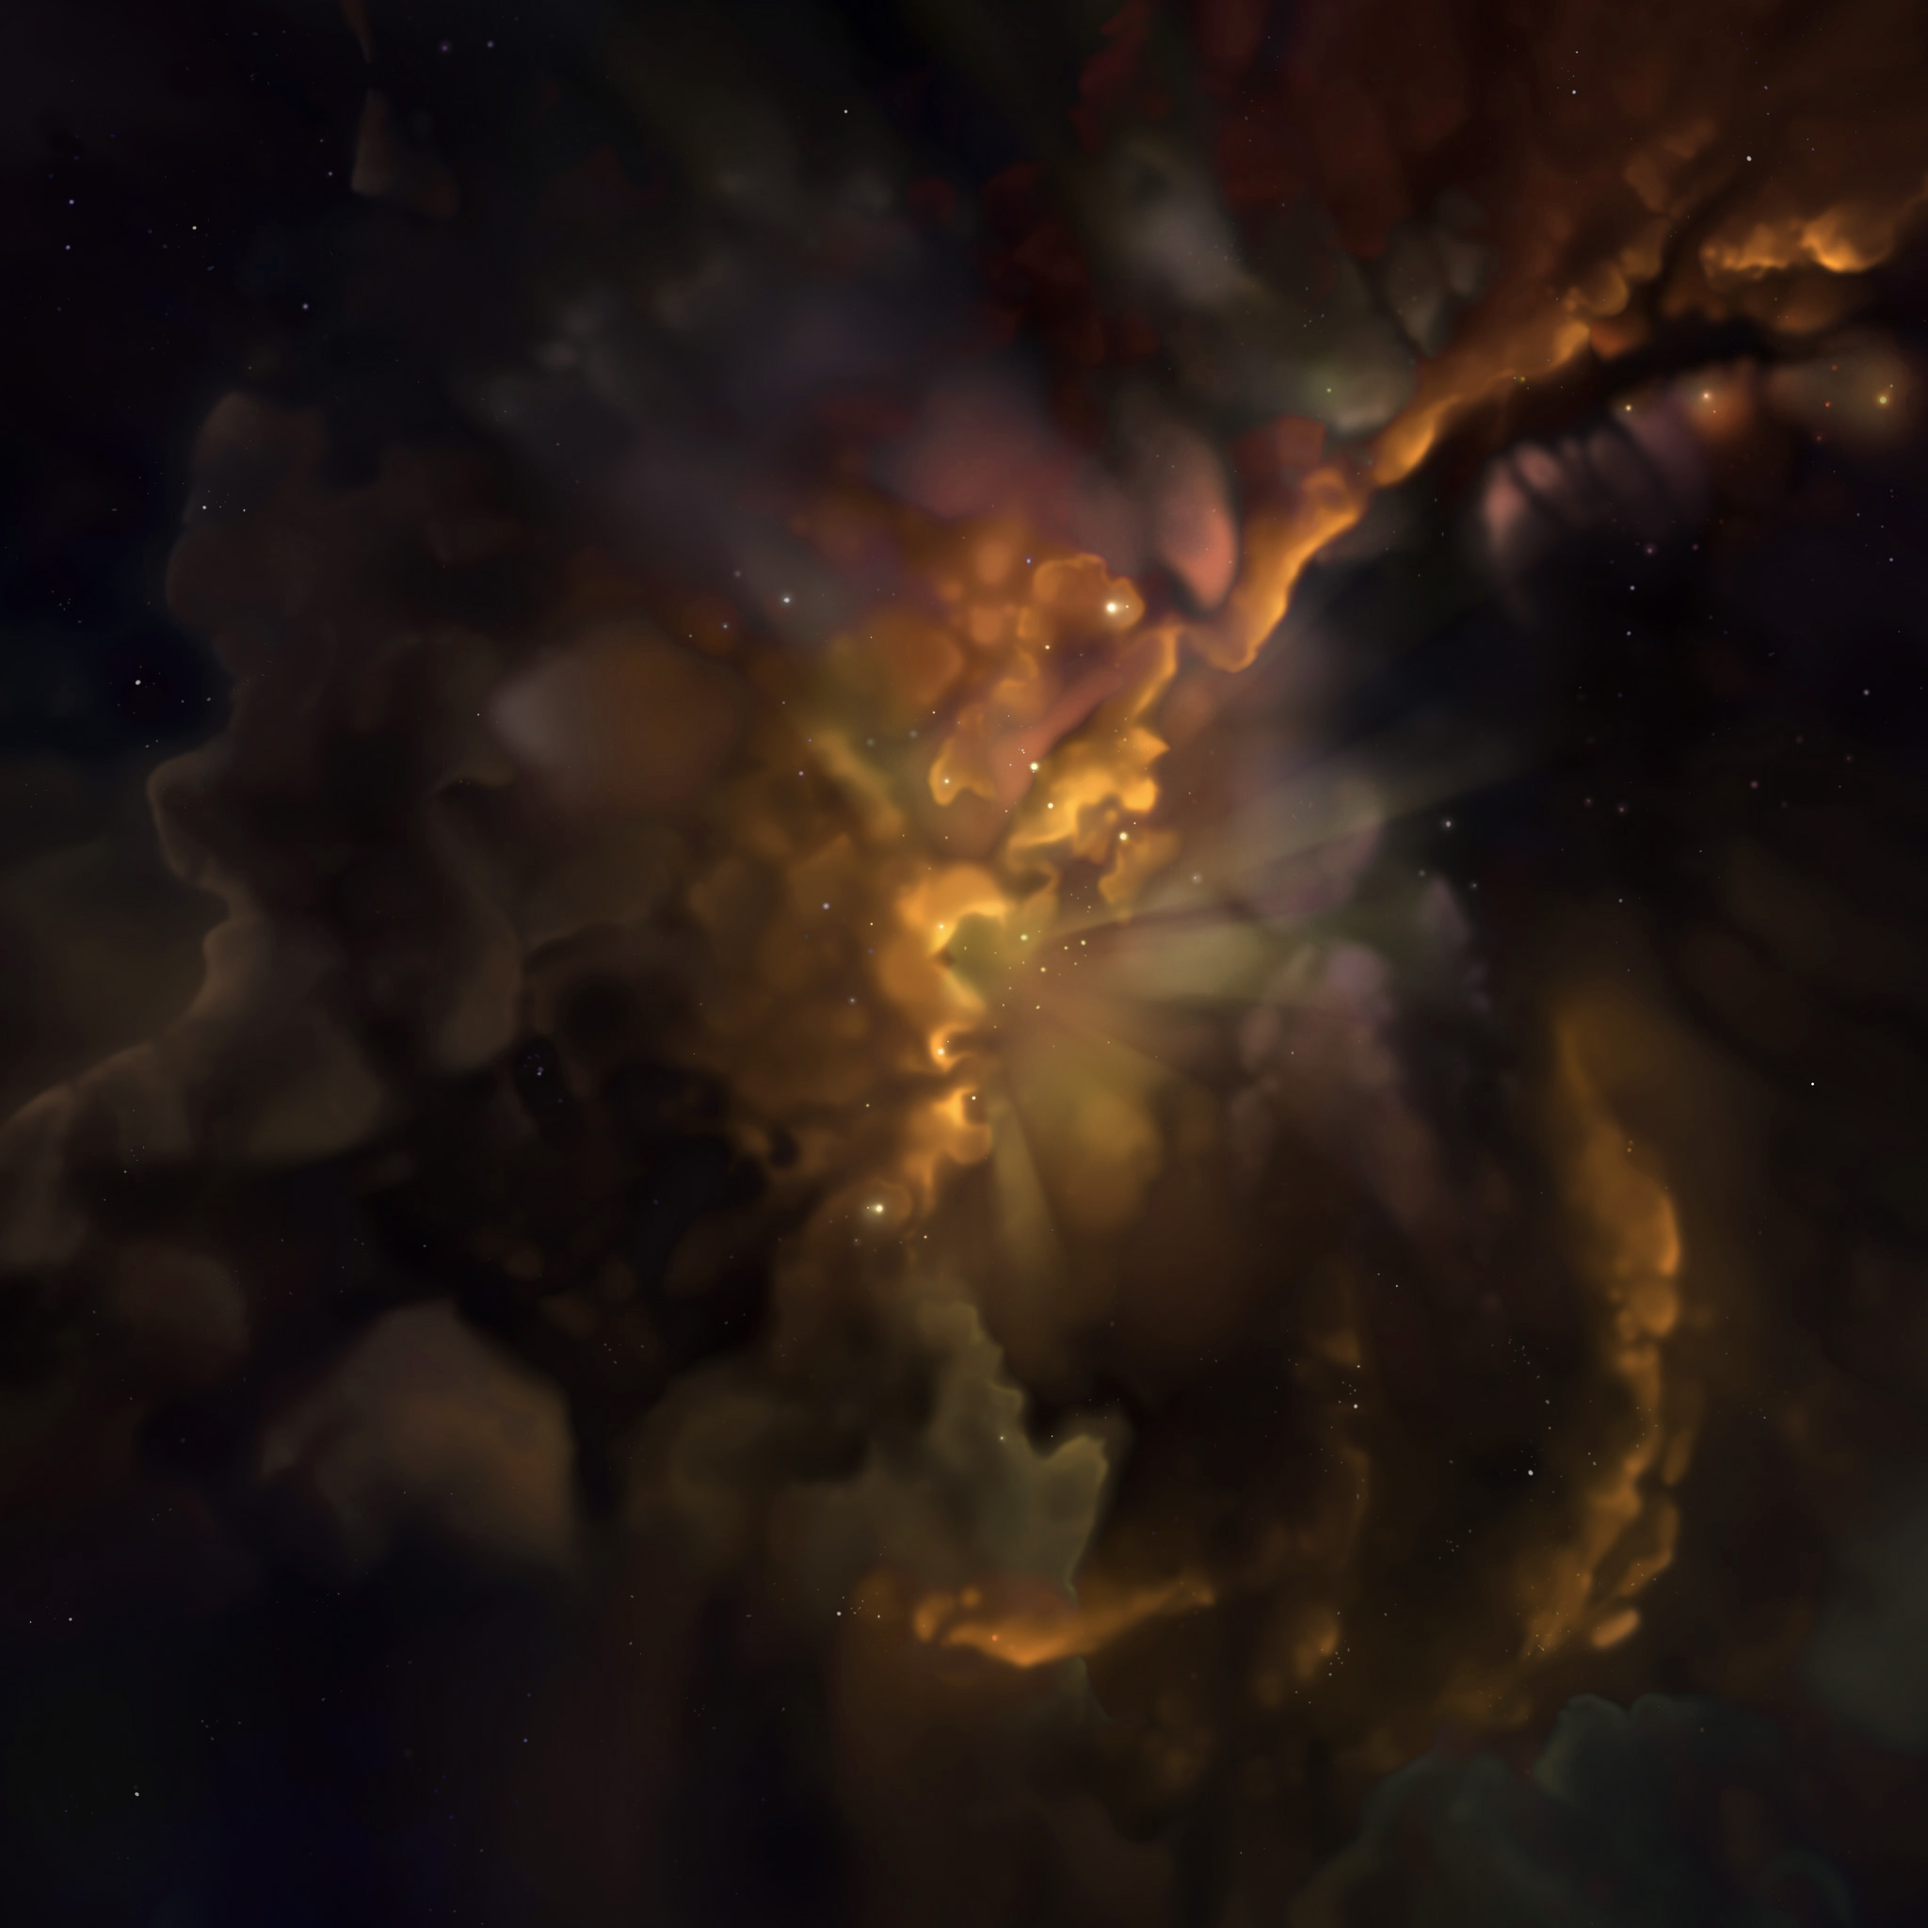
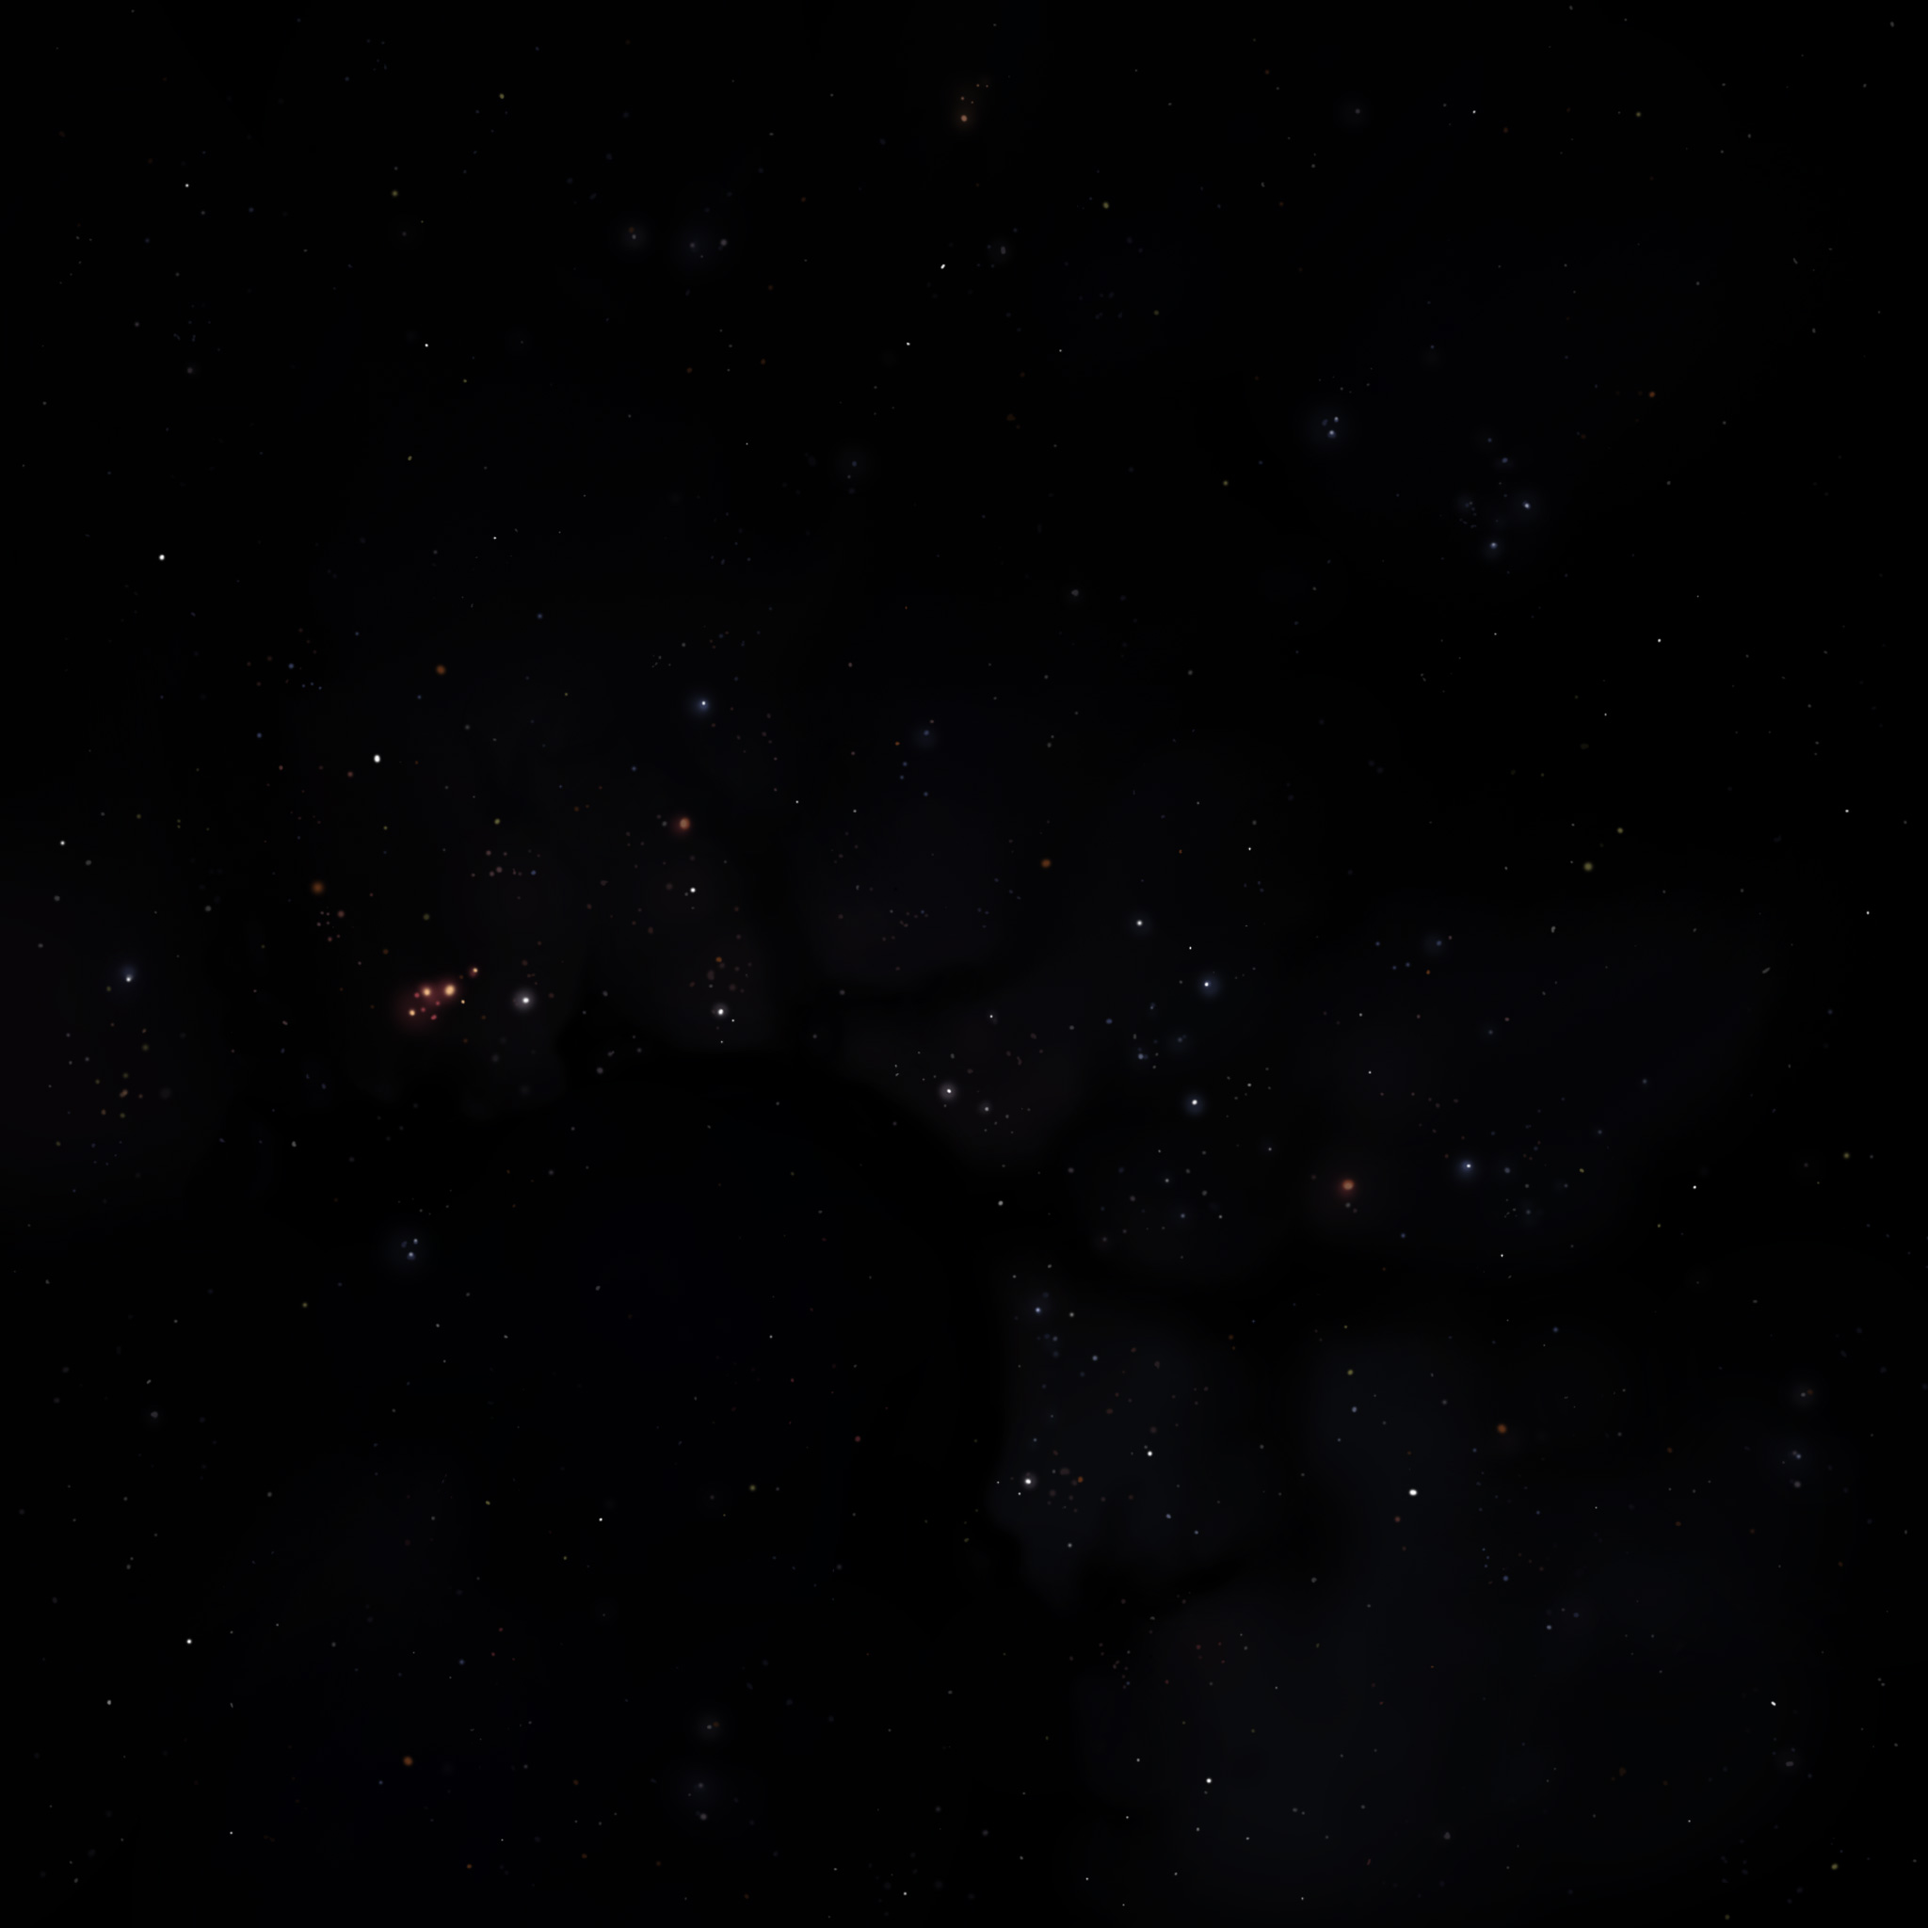
-Added derelict spawning logic and ship graveyard.

diff --git a/src/poggers/oldlegion/world/systems/MySystemOne.java b/src/poggers/oldlegion/world/systems/MySystemOne.java
@@ -19,7 +19,9 @@ import com.fs.starfarer.api.fleet.MutableFleetStatsAPI;
 import com.fs.starfarer.api.impl.campaign.fleets.FleetFactoryV3;
 import com.fs.starfarer.api.impl.campaign.ids.*;
 import com.fs.starfarer.api.impl.campaign.ids.Factions;
+import com.fs.starfarer.api.impl.campaign.rulecmd.salvage.special.ShipRecoverySpecial;
 import com.fs.starfarer.api.impl.campaign.terrain.AsteroidFieldTerrainPlugin;
+import com.fs.starfarer.api.campaign.SectorEntityToken;
 
 import org.apache.log4j.Logger;
 import org.json.JSONArray;
@@ -27,7 +29,10 @@ import org.json.JSONException;
 import org.json.JSONObject;
 
 import org.lazywizard.lazylib.MathUtils;
-import poggers.oldlegion.utils.OldLegionPersons;
+import poggers.oldlegion.scripts.OldLegionMisc;
+
+import static poggers.oldlegion.scripts.OldLegionMisc.addDerelict;
+
 
 public class MySystemOne {
     ImportantPeopleAPI ip = Global.getSector().getImportantPeople();
@@ -77,7 +82,7 @@ public class MySystemOne {
 
         //setup all distances here
         final float asteroids1Dist = 2750f;
-        final float stable1Dist = 4200f;
+        final float stable1Dist = 3700f;
         final float asteroidBelt1Dist = 5700f;
         SectorEntityToken argonAF1 = domainOutpost.addTerrain(Terrain.ASTEROID_FIELD,
                 new AsteroidFieldTerrainPlugin.AsteroidFieldParams(
@@ -95,12 +100,12 @@ public class MySystemOne {
         stableLoc1.setCircularOrbit(relay, MathUtils.getRandomNumberInRange(0f, 360f), stable1Dist, 520);
 
         //asteroid belt1 ring
-        domainOutpost.addAsteroidBelt(relay, 1000, asteroidBelt1Dist, 800, 250, 400, Terrain.ASTEROID_BELT, "Inner Band");
-        domainOutpost.addRingBand(relay, "misc", "rings_asteroids0", 256f, 3, Color.gray, 256f, asteroidBelt1Dist - 200, 250f);
-        domainOutpost.addRingBand(relay, "misc", "rings_asteroids0", 256f, 0, Color.gray, 256f, asteroidBelt1Dist, 350f);
-        domainOutpost.addRingBand(relay, "misc", "rings_asteroids0", 256f, 2, Color.gray, 256f, asteroidBelt1Dist + 200, 400f);
+        //domainOutpost.addAsteroidBelt(relay, 1000, asteroidBelt1Dist, 800, 250, 400, Terrain.ASTEROID_BELT, "Inner Band");
+        //domainOutpost.addRingBand(relay, "misc", "rings_asteroids0", 256f, 3, Color.gray, 256f, asteroidBelt1Dist - 200, 250f);
+        //domainOutpost.addRingBand(relay, "misc", "rings_asteroids0", 256f, 0, Color.gray, 256f, asteroidBelt1Dist, 350f);
+        //domainOutpost.addRingBand(relay, "misc", "rings_asteroids0", 256f, 2, Color.gray, 256f, asteroidBelt1Dist + 200, 400f);
 
-        PlanetAPI Hunhow = domainOutpost.addPlanet("Hunhow", relay, "Hunhow's Fall", "barren", 0, 273, 7777, 157);
+        PlanetAPI Hunhow = domainOutpost.addPlanet("Hunhow", relay, "Hunhow's Fall", "barren", 0, 273, 4977, 157);
         Hunhow.setFaction("domainspecops");
         MarketAPI market = Global.getFactory().createMarket(
                 "Hunhow_market",
@@ -174,13 +179,66 @@ public class MySystemOne {
                 );
         */
         SectorEntityToken buoy = domainOutpost.addCustomEntity("nav_buoy", "Nav Buoy", "nav_buoy", "domainspecops");
-        buoy.setCircularOrbit(relay, 25, 8861, 275);
+        buoy.setCircularOrbit(relay, 25, 6561, 315);
 
         SectorEntityToken array = domainOutpost.addCustomEntity("sensor_array", "Sensor Array", "sensor_array", "domainspecops");
-        array.setCircularOrbit(relay, 25, 3961, 95);
+        array.setCircularOrbit(relay, 25, 2361, 93);
 
         SectorEntityToken domaingate = domainOutpost.addCustomEntity("domain_ops_gate", "Domain Gate", "inactive_gate", "domainspecops");
-        domaingate.setCircularOrbit(relay, 10, 6736, 233);
+        domaingate.setCircularOrbit(relay, 10, 5736, 273);
+
+        SectorEntityToken beacon = domainOutpost.addCustomEntity("warning_beacon","Warning Beacon", "warning_beacon","domainspecops");
+        beacon.setCircularOrbit(relay,2,7934,1256);
+        beacon.setCustomDescriptionId("graveyard_beacon");
+
+        SectorEntityToken Arcon_A = OldLegionMisc.addDerelict(
+                domainOutpost, //Star system
+                domainOutpost.getEntityById("warning_beacon"), //Orbital focus
+                "onslaught_xiv_Elite", //Variant Id
+                ShipRecoverySpecial.ShipCondition.BATTERED, //Ship condition
+                100f, //Orbital radius
+                true //Recoverable?
+        );
+        SectorEntityToken Arcon_B = OldLegionMisc.addDerelict(
+                domainOutpost, //Star system
+                domainOutpost.getEntityById("warning_beacon"), //Orbital focus
+                "onslaught_xiv_Elite", //Variant Id
+                ShipRecoverySpecial.ShipCondition.WRECKED, //Ship condition
+                145f, //Orbital radius
+                true //Recoverable?
+        );
+        SectorEntityToken Arcon_C = OldLegionMisc.addDerelict(
+                domainOutpost, //Star system
+                domainOutpost.getEntityById("warning_beacon"), //Orbital focus
+                "onslaught_xiv_Elite", //Variant Id
+                ShipRecoverySpecial.ShipCondition.AVERAGE, //Ship condition
+                177f, //Orbital radius
+                true //Recoverable?
+        );
+        SectorEntityToken Arcon_D = OldLegionMisc.addDerelict(
+                domainOutpost, //Star system
+                domainOutpost.getEntityById("warning_beacon"), //Orbital focus
+                "onslaught_xiv_Elite", //Variant Id
+                ShipRecoverySpecial.ShipCondition.BATTERED, //Ship condition
+                208f, //Orbital radius
+                true //Recoverable?
+        );
+        SectorEntityToken Arcon_E = OldLegionMisc.addDerelict(
+                domainOutpost, //Star system
+                domainOutpost.getEntityById("warning_beacon"), //Orbital focus
+                "legion_xiv_Elite", //Variant Id
+                ShipRecoverySpecial.ShipCondition.AVERAGE, //Ship condition
+                253f, //Orbital radius
+                true //Recoverable?
+        );
+        SectorEntityToken Arcon_F = OldLegionMisc.addDerelict(
+                domainOutpost, //Star system
+                domainOutpost.getEntityById("warning_beacon"), //Orbital focus
+                "legion_xiv_Elite", //Variant Id
+                ShipRecoverySpecial.ShipCondition.WRECKED, //Ship condition
+                121f, //Orbital radius
+                true //Recoverable?
+        );
 
         Global.getSector().addScript(new ArtanisPersonalFleet());
 

diff --git a/src/poggers/oldlegion/scripts/OldLegionMisc.java b/src/poggers/oldlegion/scripts/OldLegionMisc.java
@@ -1,0 +1,29 @@
+package poggers.oldlegion.scripts;
+
+import com.fs.starfarer.api.campaign.SectorEntityToken;
+import com.fs.starfarer.api.campaign.StarSystemAPI;
+import com.fs.starfarer.api.impl.campaign.DerelictShipEntityPlugin;
+import com.fs.starfarer.api.impl.campaign.procgen.themes.BaseThemeGenerator;
+import com.fs.starfarer.api.impl.campaign.procgen.themes.SalvageSpecialAssigner;
+import com.fs.starfarer.api.impl.campaign.rulecmd.salvage.special.ShipRecoverySpecial;
+import com.fs.starfarer.api.util.Misc;
+import com.fs.starfarer.api.util.WeightedRandomPicker;
+
+import java.util.Random;
+
+public class OldLegionMisc {
+
+    public static SectorEntityToken addDerelict(StarSystemAPI system, SectorEntityToken focus, String variantId, ShipRecoverySpecial.ShipCondition condition, float orbitRadius, boolean recoverable) {
+        DerelictShipEntityPlugin.DerelictShipData params = new DerelictShipEntityPlugin.DerelictShipData(new ShipRecoverySpecial.PerShipData(variantId, condition), false);
+        SectorEntityToken ship = BaseThemeGenerator.addSalvageEntity(system, "wreck", "neutral", params);
+        ship.setDiscoverable(true);
+        float orbitDays = orbitRadius / (10.0F + (float)Math.random() * 5.0F);
+        ship.setCircularOrbit(focus, (float)Math.random() * 360.0F, orbitRadius, orbitDays);
+        if (recoverable) {
+            SalvageSpecialAssigner.ShipRecoverySpecialCreator creator = new SalvageSpecialAssigner.ShipRecoverySpecialCreator((Random)null, 0, 0, false, (DerelictShipEntityPlugin.DerelictType)null, (WeightedRandomPicker)null);
+            Misc.setSalvageSpecial(ship, creator.createSpecial(ship, (SalvageSpecialAssigner.SpecialCreationContext)null));
+        }
+
+        return ship;
+    }
+}

diff --git a/src/poggers/oldlegion/OldLegionModPlugin.java b/src/poggers/oldlegion/OldLegionModPlugin.java
@@ -23,11 +23,10 @@ public class OldLegionModPlugin extends BaseModPlugin {
 
 
     // TODO: Actual Dialog and art for characters (LOTS OF DIALOG TO FIX)
-    // TODO: Actual quests and stuff for reputation
-    // TODO: change license
+    // TODO: change license (maybe not?)
     // TODO: stop faction relationships from changing with NEX
-    // TODO: block transverse jump on outpost system
-    // TODO: fix npc comm order issue
+    // TODO: block transverse jump on outpost system (number 2 priority)
+    // TODO: fix npc comm order issue (number 1 priority)
     // TODO: trade shroud/threat/omega items for rep
 
 
